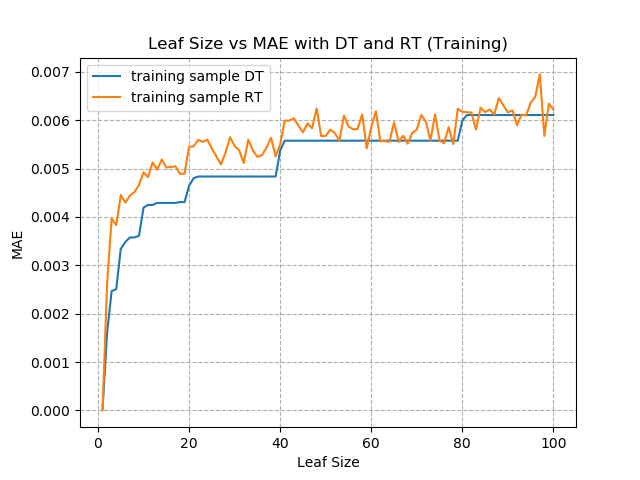
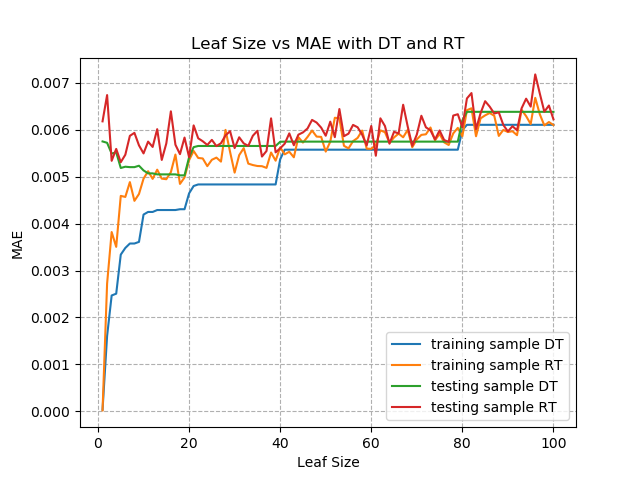
Project 3: updated graphs

diff --git a/assess_learners/testlearner.py b/assess_learners/testlearner.py
@@ -233,7 +233,9 @@ def experiment3_1(train_x, train_y, test_x, test_y):
     ticks = range(1, 101)
     plt.plot(ticks, train_DT, label="training sample DT")
     plt.plot(ticks, train_RT, label="training sample RT")
-    plt.title("Leaf Size vs MAE with DT and RT (Training)")
+    plt.plot(ticks, test_DT, label="testing sample DT")
+    plt.plot(ticks, test_RT, label="testing sample RT")
+    plt.title("Leaf Size vs MAE with DT and RT")
     plt.xlabel("Leaf Size")
     plt.ylabel("MAE")
     plt.grid(linestyle="--")
@@ -241,16 +243,16 @@ def experiment3_1(train_x, train_y, test_x, test_y):
     plt.savefig("Figure4.png")
     plt.clf()
 
-    ticks = range(1, 101)
-    plt.plot(ticks, test_DT, label="testing sample DT")
-    plt.plot(ticks, test_RT, label="testing sample RT")
-    plt.title("Leaf Size vs MAE with DT and RT (Testing)")
-    plt.xlabel("Leaf Size")
-    plt.ylabel("MAE")
-    plt.grid(linestyle="--")
-    plt.legend(loc="best")
-    plt.savefig("Figure5.png")
-    plt.clf()
+    # ticks = range(1, 101)
+    # plt.plot(ticks, test_DT, label="testing sample DT")
+    # plt.plot(ticks, test_RT, label="testing sample RT")
+    # plt.title("Leaf Size vs MAE with DT and RT (Testing)")
+    # plt.xlabel("Leaf Size")
+    # plt.ylabel("MAE")
+    # plt.grid(linestyle="--")
+    # plt.legend(loc="best")
+    # plt.savefig("Figure5.png")
+    # plt.clf()
 
 def experiment3_2(train_x, train_y, test_x, test_y):
     #mean absolute percentage error = mean(abs(true - pred) / true) * 100
@@ -288,7 +290,7 @@ def experiment3_2(train_x, train_y, test_x, test_y):
     plt.ylabel("MAPE (%)")
     plt.grid(linestyle="--")
     plt.legend(loc="best")
-    plt.savefig("Figure6.png")
+    plt.savefig("Figure5.png")
     plt.clf()
 
 if __name__ == "__main__":
